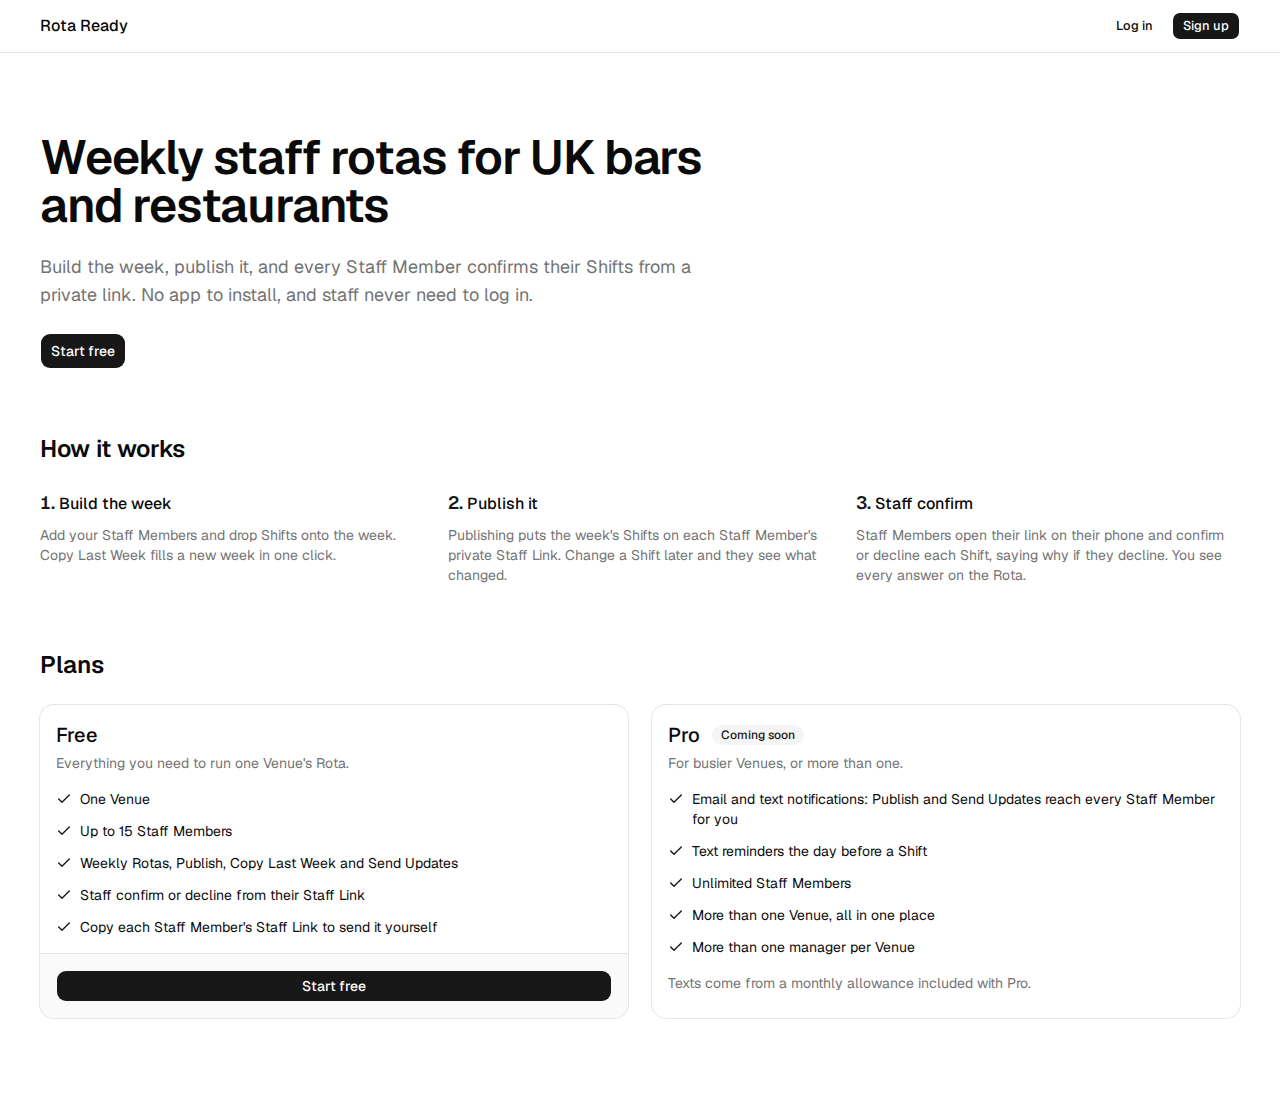
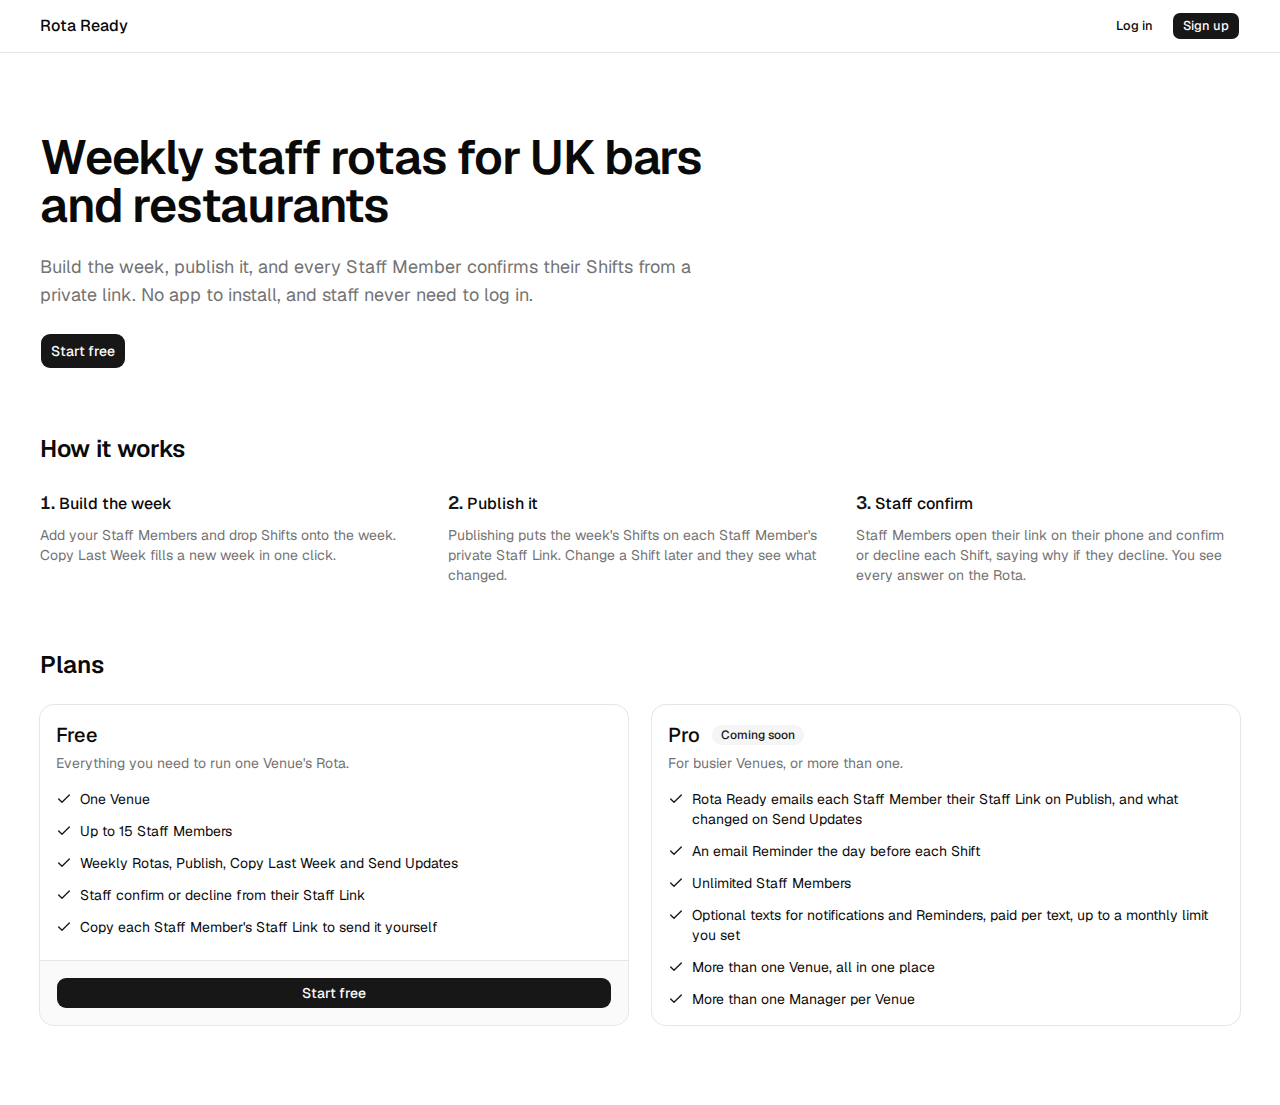
docs: the README shows the Free plan's Copy link lists, Pro as the PRD plans it, the Free plan work in the MVP and the Pro PRD (#157)

diff --git a/README.md b/README.md
@@ -7,6 +7,7 @@
 [![Projects board](https://img.shields.io/badge/board-Rota_Ready_MVP-blue)](https://github.com/users/sjblurton/projects/1)
 [![Future work](https://img.shields.io/badge/board-future_work-blueviolet)](https://github.com/users/sjblurton/projects/2)
 [![PRD](https://img.shields.io/badge/PRD-%231-informational)](https://github.com/sjblurton/rota-ready/issues/1)
+[![Pro PRD](https://img.shields.io/badge/Pro_PRD-%23152-informational)](https://github.com/sjblurton/rota-ready/issues/152)
 
 <p align="center">
   <img src="docs/images/landing-page.png" alt="The Rota Ready landing page: the pitch, How it works in three steps, and two plans, Free with a Start free button and Pro marked Coming soon" width="860">
@@ -30,9 +31,15 @@ Built by an ex-chef who has been on the wrong end of a WhatsApp rota.
 **Plans.** [The landing page](https://rota-ready.onrender.com) offers two:
 
 - **Free**, the working app today: one Venue, up to 15 Staff Members who aren't archived, weekly Rotas, Publish, Send Updates and Copy Last Week, with Staff Members confirming or declining from their Staff Link. Rota Ready sends Staff Members nothing on Free: Publish and Send Updates list each Staff Member to tell, with a Copy link button and, for Send Updates, what changed.
-- **Pro**, coming soon: email and text notifications that reach every Staff Member, text reminders the day before a Shift, unlimited Staff Members, more than one Venue, and more than one manager per Venue.
+- **Pro**, coming soon: Rota Ready emails each Staff Member their Staff Link and what changed, sends an email Reminder the day before each Shift, and allows unlimited Staff Members. Texts are optional, paid per text up to a monthly limit the Owner sets. More than one Venue and Managers come in a later version.
 
-This is a proof of concept with no paid services, so there's no price yet and nothing to buy. The [future-work board](https://github.com/users/sjblurton/projects/2) holds what Pro would need.
+<p align="center">
+  <img src="docs/images/send-updates-free.png" alt="The Send Updates dialog on Free, listing Jo Bloggs with one new Shift and Sam Jones with a changed and a removed Shift, each with a Copy link button" width="420">
+  <br>
+  <em>On Free, Send Updates lists who to tell and what changed, with a Copy link for each</em>
+</p>
+
+This is a proof of concept with no paid services, so nothing is for sale yet. [The Pro PRD](https://github.com/sjblurton/rota-ready/issues/152) plans the paid version: what Pro includes, pricing and texts, Stripe, Twilio and Resend, what has to be in place first, and the break-even point. It came out of a [map of eight decisions](https://github.com/sjblurton/rota-ready/issues/140), including research into SMS, payment providers and running costs.
 
 **Built AI-first, human-verified.** AI agents write the code from small, fully specified tickets. I check every change in the browser, review it, and only merge it when tests against a real database pass. [How it's built](#how-its-built) explains the workflow and what "verified" means here.
 
@@ -231,6 +238,13 @@ Stretch goals:
 
 - [x] [#15](https://github.com/sjblurton/rota-ready/issues/15) Copy last week
 
+The Free plan, which finishes the MVP for real Venues:
+
+- [x] [#133](https://github.com/sjblurton/rota-ready/issues/133) A landing page with a Free plan and a Pro plan coming soon
+- [x] [#134](https://github.com/sjblurton/rota-ready/issues/134) Each Venue has a Plan; Free sends no emails, and Publish and Send Updates list who to tell with a Copy link
+- [x] [#135](https://github.com/sjblurton/rota-ready/issues/135) Free allows up to 15 Staff Members per Venue
+- [x] [#137](https://github.com/sjblurton/rota-ready/issues/137) An Upgrade to Pro button shows what Pro will offer
+
 Since the MVP:
 
 - [x] [#27](https://github.com/sjblurton/rota-ready/issues/27), [#96](https://github.com/sjblurton/rota-ready/issues/96) Migrations run atomically, pass a linter, and must pass the running API's tests
@@ -240,15 +254,15 @@ Since the MVP:
 - [x] [#40](https://github.com/sjblurton/rota-ready/issues/40) A page that fails to load shows the error and Try again in its place
 - [x] [#92](https://github.com/sjblurton/rota-ready/issues/92) [An audit of the testing approach](docs/testing-audit-2026-11.md)
 - [x] [#95](https://github.com/sjblurton/rota-ready/issues/95) "told" renamed to "notified" across three deploys, without breaking the running API
-- [x] [#133](https://github.com/sjblurton/rota-ready/issues/133) A landing page with a Free plan and a Pro plan coming soon
+- [x] [#140](https://github.com/sjblurton/rota-ready/issues/140) A map of decisions for the paid version, ending in [the Pro PRD](https://github.com/sjblurton/rota-ready/issues/152)
 
 ### Future work
 
 The [future-work board](https://github.com/users/sjblurton/projects/2) groups what's next by theme:
 
-- **Paid version:** what needs a paid plan, a domain or an email sender, such as a sign-up that never reveals whether an email already belongs to a User
+- **Paid version:** [the Pro PRD](https://github.com/sjblurton/rota-ready/issues/152), and what needs a paid plan, a domain or an email sender, such as a sign-up that never reveals whether an email already belongs to a User
 - **Product:** one history of what each Staff Member was notified about, the Staff Link page at phone width in the journey, and more
-- **Engineering:** faster CI, more row-lock tests, the journey against production builds, and lint rules
+- **Engineering:** faster CI, more row-lock tests, the journey against production builds, lint rules, and list rows built on shadcn's Item
 - **Agent workflow:** guardrails and skills for the agents that build the app
 
 Other ideas, not yet ticketed: open (unassigned) Shifts, shift swaps, and availability and time off.
